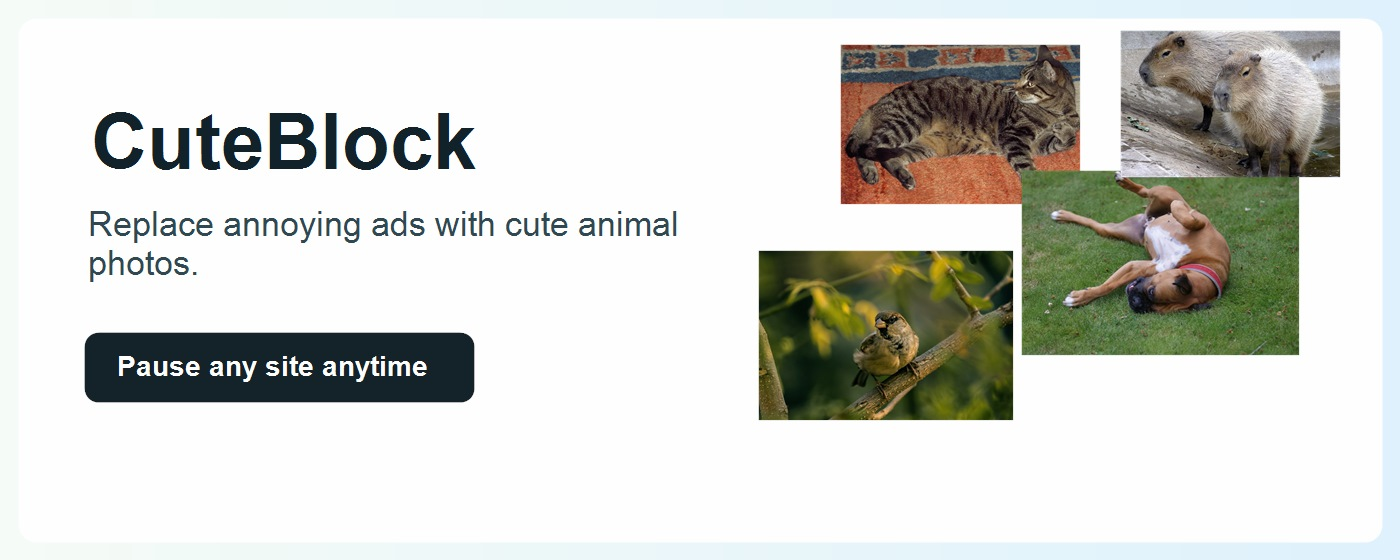
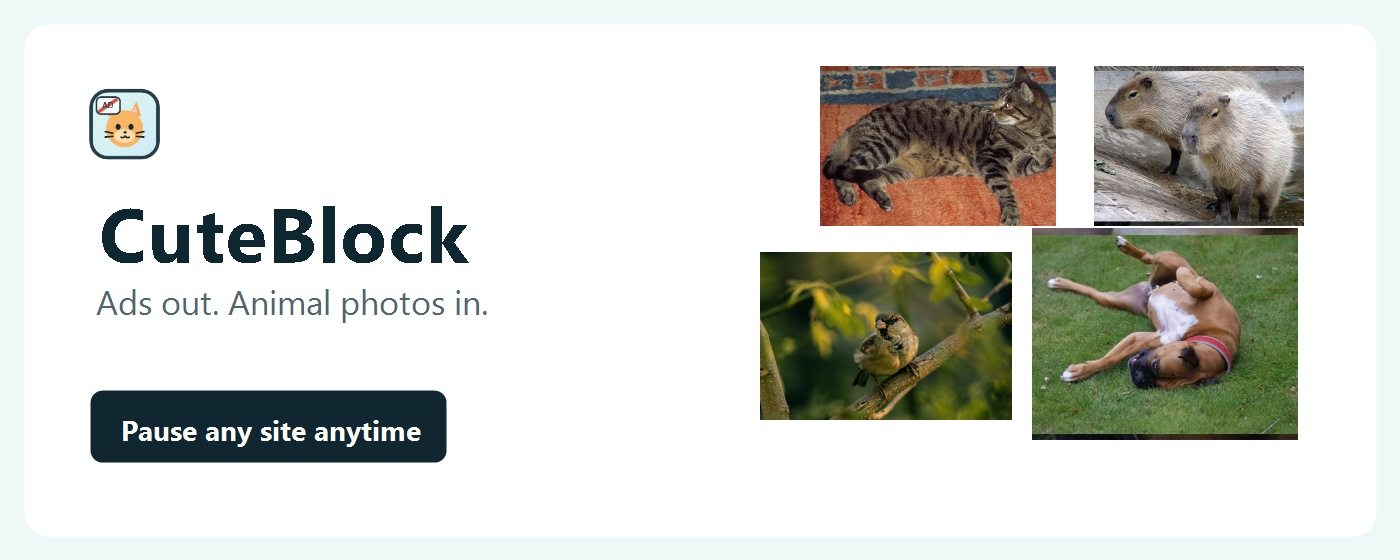
Polish store assets and popup presentation

diff --git a/popup.html b/popup.html
@@ -9,7 +9,7 @@
   <body>
     <main class="popup">
       <header class="brand">
-        <img src="assets/cat-rect.jpg" alt="" class="brand-mark">
+        <img src="assets/icons/icon-48.png" alt="" class="brand-mark">
         <div>
           <h1>CuteBlock</h1>
           <p>Replace annoying ads with cute animals.</p>
@@ -41,8 +41,9 @@
         <span class="label">Image source</span>
         <select id="image-source">
           <option value="local">Bundled photos</option>
-          <option value="online-dogs">Random dog API</option>
+          <option value="online-dogs">Random dog photos</option>
         </select>
+        <p class="hint">Bundled photos stay offline. Random dog photos ask for permission before loading from random.dog.</p>
       </section>
 
       <section class="control">

diff --git a/popup.js b/popup.js
@@ -101,7 +101,7 @@ function setImageSource(nextSource) {
     "",
     "If enabled, CuteBlock may request images from random.dog or dog.ceo when it replaces an ad. Those services may receive normal web request metadata such as your IP address and browser user agent.",
     "",
-    "Bundled photos remain available without external requests. Enable Random dog API?"
+    "Bundled photos remain available without external requests. Enable random dog photos?"
   ].join("\n");
 
   if (!window.confirm(warning)) {

diff --git a/popup.css b/popup.css
@@ -25,7 +25,7 @@ body {
 .brand-mark {
   border-radius: 8px;
   height: 54px;
-  object-fit: cover;
+  object-fit: contain;
   width: 54px;
 }
 
@@ -116,6 +116,12 @@ select {
   font-size: 12px;
   font-weight: 750;
   min-height: 16px;
+}
+
+.hint {
+  color: #63727b;
+  font-size: 12px;
+  line-height: 1.35;
 }
 
 .credits {

diff --git a/CHROME_STORE_UPLOAD_FIELDS.md b/CHROME_STORE_UPLOAD_FIELDS.md
@@ -17,25 +17,28 @@ Replace annoying ads with cute animals.
 Description:
 
 ```text
-CuteBlock is a playful ad replacement extension that swaps likely ad containers for cute animal photos while preserving the shape of the page.
+CuteBlock is a browser extension that replaces likely ad containers with cute animal photos while preserving the shape of the page.
 
-Instead of removing an ad slot and leaving a blank space behind, CuteBlock replaces obvious ad areas with bundled photos of cats, dogs, birds, and capybaras. It is designed to make browsing feel calmer and a little more delightful without breaking page layouts.
+Instead of removing ad slots and leaving empty spaces behind, CuteBlock swaps obvious ad-shaped areas with bundled photos of cats, dogs, birds, capybaras, and other animals. The result is a calmer, friendlier browsing experience without awkward blank holes in the layout.
+
+Bundled photos are included inside the extension, so no external image requests are made by default. Users can also choose an optional random dog photo mode, which fetches images from random.dog with dog.ceo as a fallback after a warning and browser permission prompt.
 
 Features:
 - Replaces likely ad containers with animal photos.
-- Keeps bundled photos as the default, so no external image requests are needed for normal use.
-- Lets you pause CuteBlock globally.
-- Lets you pause CuteBlock on the current site.
-- Lets you choose an animal theme.
+- Preserves page layout by keeping the original ad slot shape.
+- Uses bundled animal photos by default.
+- Lets you choose animal themes, including cats, dogs, birds, capybaras, and mixed animals.
 - Includes photo fit controls for different ad slot shapes.
-- Includes a replacement level control so you can choose a gentler or more eager experience.
+- Includes a replacement level control for gentler or more eager detection.
+- Lets you pause CuteBlock globally.
+- Lets you pause CuteBlock on specific sites.
 - Offers optional random dog photos through random.dog, with dog.ceo as a fallback, after a warning and browser permission prompt.
 
 Privacy:
-CuteBlock does not collect, sell, or transmit browsing history. Settings are stored with browser extension storage. Bundled photos are loaded from the extension package. Optional random dog images only load if you choose that image source and approve the browser permission prompt.
+CuteBlock does not collect, sell, or transmit your browsing history or personal data. Settings are stored using the browser's extension storage. Bundled photos are loaded from the extension package. Optional random dog photos are only requested if you enable that image source and approve the browser permission prompt.
 
 Why install it?
-If you want fewer annoying ad blocks but do not want pages full of awkward blank holes, CuteBlock turns those spaces into something nicer.
+If you want fewer annoying ad spaces without pages full of blank gaps, CuteBlock turns those spaces into something lighter, friendlier, and more fun.
 ```
 
 Category:
@@ -125,11 +128,11 @@ See CHROME_PRIVACY_PRACTICES_FIELDS.md
 Upload this ZIP:
 
 ```text
-dist/CuteBlock-0.2.2.zip
+dist/CuteBlock-0.2.3.zip
 ```
 
 GitHub release:
 
 ```text
-https://github.com/srkyn/CuteBlock/releases/tag/v0.2.2
+https://github.com/srkyn/CuteBlock/releases/tag/v0.2.3
 ```

diff --git a/README.md b/README.md
@@ -1,6 +1,10 @@
 # CuteBlock
 
-CuteBlock is a playful browser extension that replaces obvious ad containers with cute animal photos instead of collapsing the page layout.
+CuteBlock is a playful browser extension that replaces likely ad containers with cute animal photos instead of collapsing the page layout.
+
+![CuteBlock replacing ad slots with animal photos](store-assets/upload-ready/screenshot-1280x800.jpg)
+
+Instead of leaving awkward blank spaces where ads used to be, CuteBlock keeps the original slot shape and fills it with bundled photos of cats, dogs, birds, and capybaras. Bundled photos are the default, so normal use does not make external image requests.
 
 ## Load It In Chrome Or Edge
 
@@ -16,7 +20,7 @@ Open `test/ad-test.html` in the browser after loading the extension. The fake ad
 ## Current Features
 
 - Manifest V3 extension.
-- DOM-level replacement for common ad selectors, sponsored blocks, and ad-like class/id names.
+- DOM-level replacement for common ad selectors, sponsored blocks, ad iframes, and ad-like class/id names.
 - Starter EasyList-style cosmetic filter support from `filters/cosmetic-lite.txt`.
 - Ghostery's MPL-2.0 filtering engine powers cosmetic rule matching.
 - Reversible replacements when CuteBlock is disabled or paused for the current site.
@@ -25,6 +29,12 @@ Open `test/ad-test.html` in the browser after loading the extension. The fake ad
 - Bundled photos are packaged with the extension, so ad replacement does not require external image requests by default.
 - Optional online dog images via `random.dog`, with `dog.ceo` as a fallback, can be enabled after a warning and permission prompt.
 - Bundled animal photos include wide, rectangle, and tall variants so ad slots get shape-appropriate images.
+
+## Store Materials
+
+- Upload fields: [`CHROME_STORE_UPLOAD_FIELDS.md`](CHROME_STORE_UPLOAD_FIELDS.md)
+- Privacy practice answers: [`CHROME_PRIVACY_PRACTICES_FIELDS.md`](CHROME_PRIVACY_PRACTICES_FIELDS.md)
+- Upload-ready images: [`store-assets/upload-ready`](store-assets/upload-ready)
 
 ## Cosmetic Filter Syntax
 

diff --git a/STORE_LISTING.md b/STORE_LISTING.md
@@ -2,7 +2,7 @@
 
 ## Single Purpose
 
-CuteBlock replaces obvious ad containers with bundled cute animal photos while preserving the page layout. Users can pause CuteBlock globally or on specific sites.
+CuteBlock replaces likely ad containers with cute animal photos while preserving page layout. Users can pause CuteBlock globally or on specific sites.
 
 ## Short Description
 
@@ -10,14 +10,14 @@ Replace annoying ads with cute animal photos.
 
 ## Detailed Description
 
-CuteBlock is a playful ad replacement extension. Instead of collapsing ad slots and leaving awkward blank space, it swaps likely ad containers for bundled animal photos packaged with the extension. An optional Random dog API mode can be enabled after a warning and browser permission prompt.
+CuteBlock is a playful ad replacement extension. Instead of collapsing ad slots and leaving awkward blank space, it swaps likely ad containers for animal photos while keeping the original slot shape. Bundled photos are packaged with the extension by default. Optional random dog photos can be enabled after a warning and browser permission prompt.
 
 Current controls:
 
 - Pause CuteBlock globally.
 - Pause CuteBlock on the current site.
 - Choose an animal theme.
-- Choose bundled photos or the optional Random dog API.
+- Choose bundled photos or optional random dog photos.
 - Choose photo fit behavior.
 - Adjust replacement level.
 
@@ -31,7 +31,7 @@ Current controls:
 
 - [ ] Run `npm run check`.
 - [ ] Run `npm run package`.
-- [ ] Upload `dist/CuteBlock-0.2.2.zip`.
-- [ ] Add `store-assets/cuteblock-test-page.png` as a screenshot.
+- [ ] Upload `dist/CuteBlock-0.2.3.zip`.
+- [ ] Add `store-assets/upload-ready/screenshot-1280x800.jpg` as a screenshot.
 - [ ] Use `PRIVACY.md` for the privacy policy text or hosted privacy page.
 - [ ] Confirm optional remote dog image behavior is disclosed.

diff --git a/CHROME_PRIVACY_PRACTICES_FIELDS.md b/CHROME_PRIVACY_PRACTICES_FIELDS.md
@@ -37,7 +37,7 @@ CuteBlock does not execute remotely hosted code. All JavaScript, CSS, filter rul
 ## storage Justification
 
 ```text
-CuteBlock uses storage to save user preferences, including whether the extension is enabled, paused sites, animal theme, replacement level, and photo fit mode. These settings are stored by the browser's extension storage system so the user's choices persist between browsing sessions.
+CuteBlock uses storage to save user preferences, including whether the extension is enabled, paused sites, animal theme, replacement level, photo fit mode, and image source. These settings are stored by the browser's extension storage system so the user's choices persist between browsing sessions.
 ```
 
 ## Optional Remote Image Disclosure

diff --git a/PRIVACY.md b/PRIVACY.md
@@ -11,7 +11,7 @@ CuteBlock replaces likely ad containers in the page with bundled animal photos b
 
 ## Optional Random Dog API Mode
 
-If you choose **Random dog API** in the popup and approve the permission prompt, replaced ad slots may request images from:
+If you choose **Random dog photos** in the popup and approve the permission prompt, replaced ad slots may request images from:
 
 - `https://random.dog/`
 - `https://dog.ceo/`
